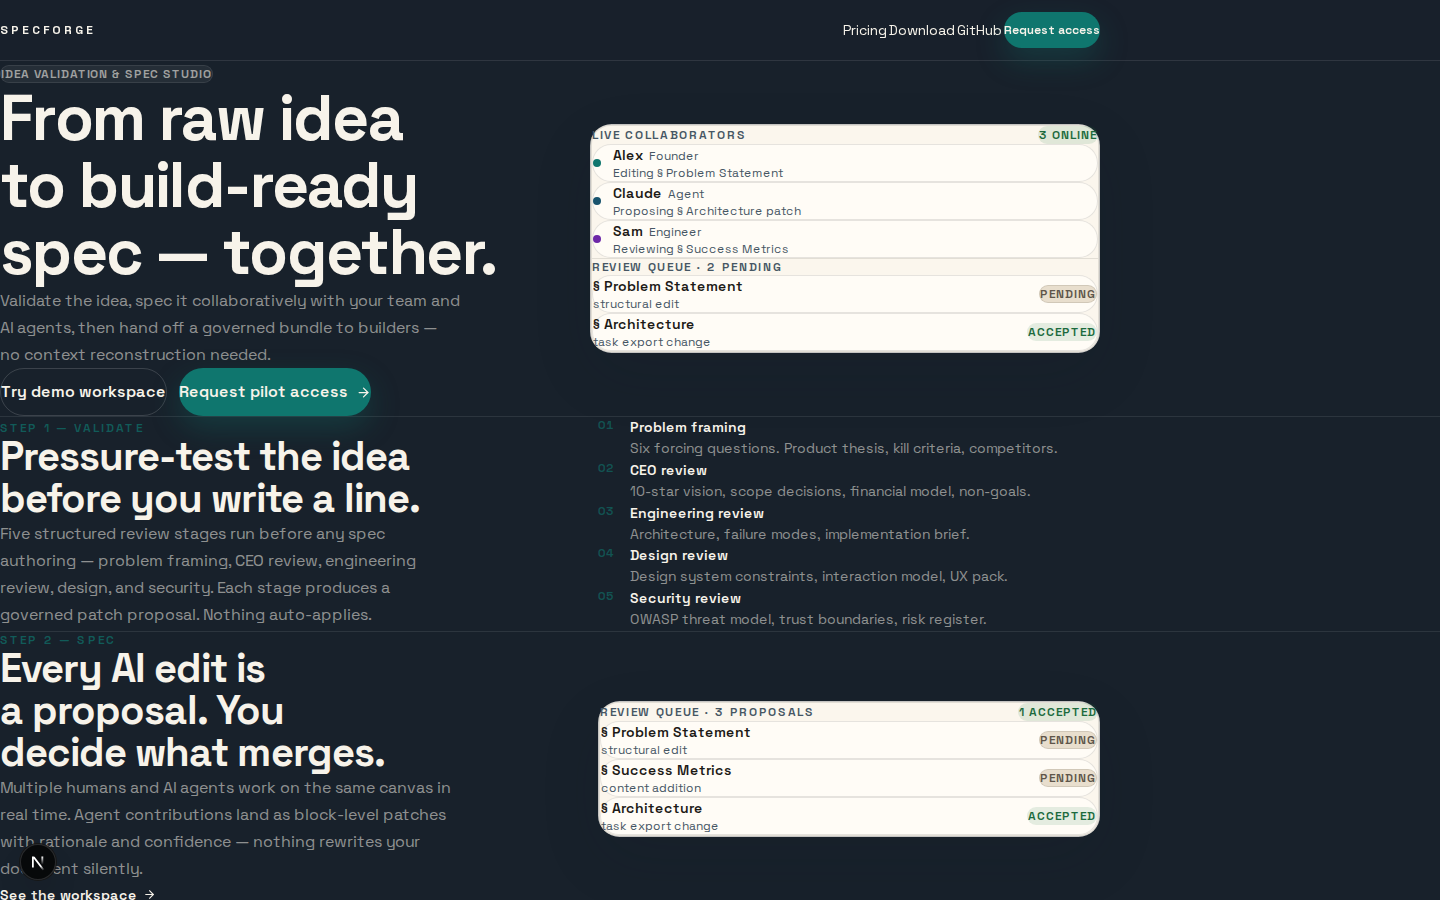
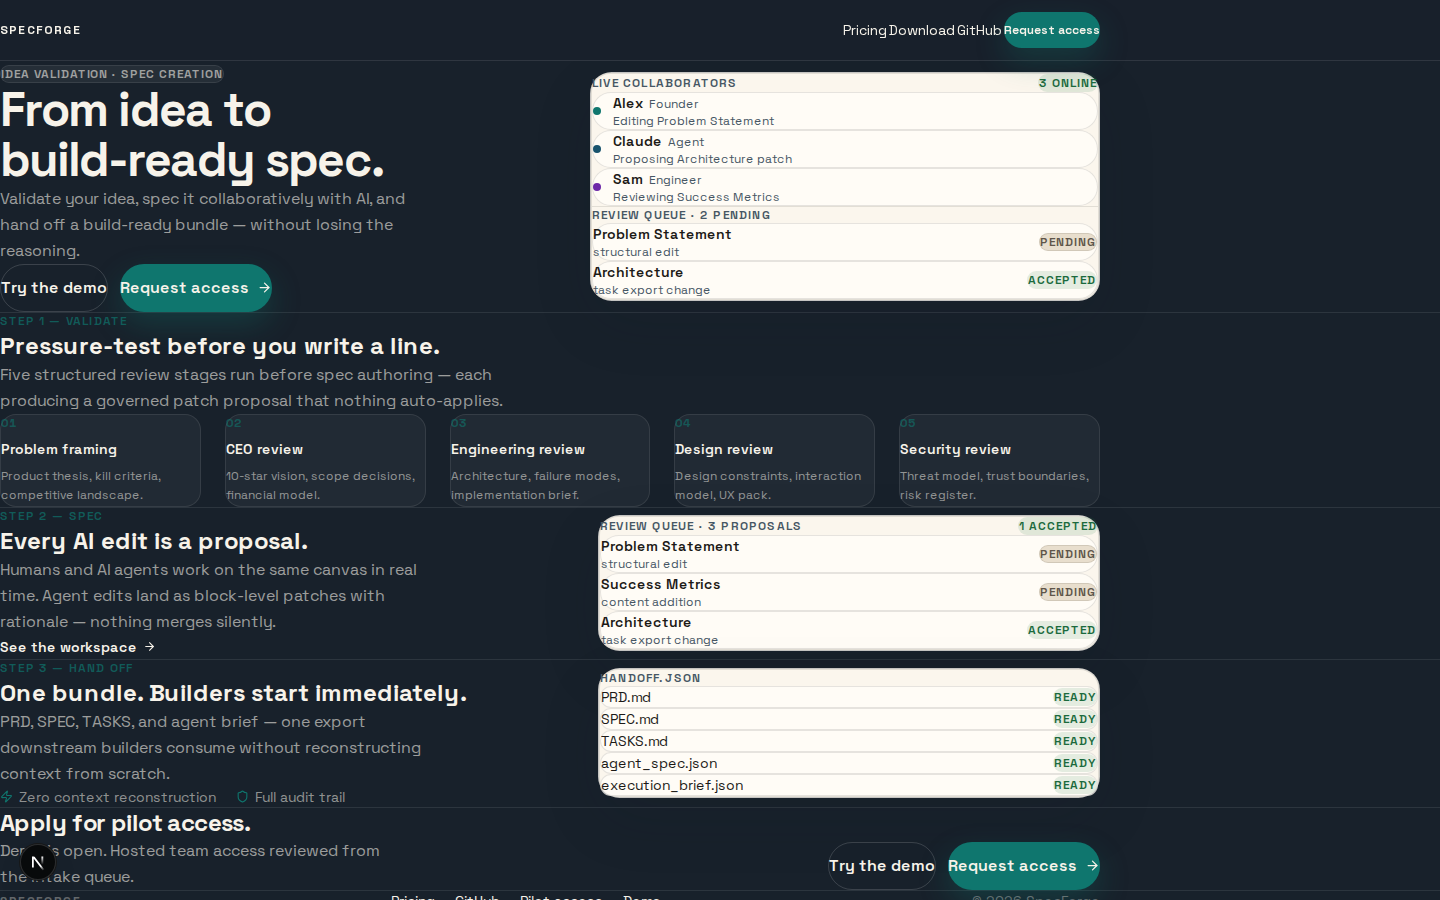
feat(web): landing page polish — standard typography, section rhythm, shorter copy
- Section h2: replace custom clamp(1.5rem,4vw,2.5rem) with text-2xl (1.5rem)
  which matches DESIGN.md typography scale; eliminates 40px headings forcing 3-4
  line wraps in each section
- Break section rhythm per DESIGN.md: Step 1 (Validate) is now a full-width
  5-card grid instead of 2-col; Step 3 (Hand off) reverses column order on desktop
- Replace all custom tracking-[...] values with tracking-widest/tracking-wide
- Side padding: px-6 sm:px-8 lg:px-10 across all sections and nav (was px-5)
- Space-y-5/6 on all text columns for consistent internal breathing room
- Copy shortened: hero subhead 23→16 words; section h2s all ≤8 words;
  button labels: "Try the demo" / "Request access" instead of long variants
- Audit stage cards: sm:grid-cols-3 lg:grid-cols-5 for better breakpoint coverage
- Updated screenshots (mobile/tablet/desktop fold+full)

[Agent: Claude Sonnet 4.6]

diff --git a/web/src/app/page.tsx b/web/src/app/page.tsx
@@ -8,17 +8,17 @@ import { Card, CardPanel } from "@/components/ui/card";
 const GITHUB_URL = "https://github.com/chimera-defi/specforge";
 
 const auditStages = [
-  { n: "01", title: "Problem framing", sub: "Six forcing questions. Product thesis, kill criteria, competitors." },
-  { n: "02", title: "CEO review", sub: "10-star vision, scope decisions, financial model, non-goals." },
+  { n: "01", title: "Problem framing", sub: "Product thesis, kill criteria, competitive landscape." },
+  { n: "02", title: "CEO review", sub: "10-star vision, scope decisions, financial model." },
   { n: "03", title: "Engineering review", sub: "Architecture, failure modes, implementation brief." },
-  { n: "04", title: "Design review", sub: "Design system constraints, interaction model, UX pack." },
-  { n: "05", title: "Security review", sub: "OWASP threat model, trust boundaries, risk register." },
+  { n: "04", title: "Design review", sub: "Design constraints, interaction model, UX pack." },
+  { n: "05", title: "Security review", sub: "Threat model, trust boundaries, risk register." },
 ];
 
 const reviewQueue = [
-  { block: "§ Problem Statement", type: "structural edit", status: "pending" },
-  { block: "§ Success Metrics", type: "content addition", status: "pending" },
-  { block: "§ Architecture", type: "task export change", status: "accepted" },
+  { block: "Problem Statement", type: "structural edit", status: "pending" },
+  { block: "Success Metrics", type: "content addition", status: "pending" },
+  { block: "Architecture", type: "task export change", status: "accepted" },
 ];
 
 const handoffFiles = ["PRD.md", "SPEC.md", "TASKS.md", "agent_spec.json", "execution_brief.json"];
@@ -33,48 +33,49 @@ export default function LandingPage() {
         ctaVariant="default"
       />
 
-      {/* Hero */}
-      <section className="mx-auto w-full max-w-[1100px] px-5 pb-10 pt-12 sm:px-8 md:pt-20">
-        <div className="grid gap-8 lg:grid-cols-2 lg:items-center lg:gap-20">
-          <div>
-            <Badge variant="outline" className="mb-6 border-border-dark text-primary-foreground/60">
-              Idea validation &amp; spec studio
+      {/* ─── Hero ──────────────────────────────────────────── */}
+      <section className="mx-auto w-full max-w-[1100px] px-6 pb-14 pt-16 sm:px-8 md:pt-24 lg:px-10">
+        <div className="grid gap-10 lg:grid-cols-2 lg:items-center lg:gap-20">
+          <div className="space-y-6">
+            <Badge variant="outline" className="border-border-dark text-primary-foreground/60">
+              Idea validation · Spec creation
             </Badge>
 
-            <h1 className="max-w-[15ch] text-balance text-[clamp(1.6rem,8vw,2.2rem)] font-bold leading-[1.05] tracking-tight md:text-[clamp(2rem,5vw,4rem)]">
-              From raw idea to build-ready spec — together.
+            <h1 className="text-balance text-4xl font-extrabold leading-[1.05] tracking-tight md:text-5xl">
+              From idea to<br className="hidden sm:block" /> build-ready spec.
             </h1>
 
-            <p className="mt-5 max-w-[46ch] text-base leading-[1.7] text-primary-foreground/55">
-              Validate the idea, spec it collaboratively with your team and AI agents, then hand off a governed bundle to builders — no context reconstruction needed.
+            <p className="max-w-[42ch] text-base leading-relaxed text-primary-foreground/60">
+              Validate your idea, spec it collaboratively with AI, and hand off a build-ready bundle — without losing the reasoning.
             </p>
 
-            <div className="mt-6 flex flex-wrap items-center gap-3">
+            <div className="flex flex-wrap gap-3">
               <Button asChild variant="outline" size="lg">
-                <Link href="/workspace?source=landing_hero">Try demo workspace</Link>
+                <Link href="/workspace?source=landing_hero">Try the demo</Link>
               </Button>
               <Button asChild variant="default" size="lg">
                 <Link href="/pilot-access?source=landing_hero">
-                  Request pilot access
+                  Request access
                   <ArrowRight size={15} />
                 </Link>
               </Button>
             </div>
           </div>
 
+          {/* Collaborator + review mockup */}
           <Card className="p-1">
             <CardPanel>
               <div className="mb-3 flex min-w-0 items-center justify-between gap-2">
-                <span className="min-w-0 truncate text-xs font-semibold uppercase tracking-[0.14em] text-muted-foreground">
+                <span className="min-w-0 truncate text-xs font-semibold uppercase tracking-widest text-muted-foreground">
                   Live collaborators
                 </span>
                 <Badge variant="success" className="shrink-0">3 online</Badge>
               </div>
               <div className="mb-4 space-y-2">
                 {[
-                  { name: "Alex", role: "Founder", action: "Editing § Problem Statement", dotClass: "bg-role-human" },
-                  { name: "Claude", role: "Agent", action: "Proposing § Architecture patch", dotClass: "bg-role-agent" },
-                  { name: "Sam", role: "Engineer", action: "Reviewing § Success Metrics", dotClass: "bg-role-design" },
+                  { name: "Alex", role: "Founder", action: "Editing Problem Statement", dotClass: "bg-role-human" },
+                  { name: "Claude", role: "Agent", action: "Proposing Architecture patch", dotClass: "bg-role-agent" },
+                  { name: "Sam", role: "Engineer", action: "Reviewing Success Metrics", dotClass: "bg-role-design" },
                 ].map((p) => (
                   <div key={p.name} className="flex items-center gap-3 rounded-xl border border-border bg-card px-3 py-2.5">
                     <span className={`h-2 w-2 shrink-0 rounded-full ${p.dotClass}`} />
@@ -89,12 +90,12 @@ export default function LandingPage() {
                 ))}
               </div>
               <div className="hidden border-t border-border pt-3 sm:block">
-                <p className="mb-2 text-xs font-semibold uppercase tracking-[0.14em] text-muted-foreground">
+                <p className="mb-2 text-xs font-semibold uppercase tracking-widest text-muted-foreground">
                   Review queue · 2 pending
                 </p>
                 {[
-                  { block: "§ Problem Statement", type: "structural edit", status: "pending" },
-                  { block: "§ Architecture", type: "task export change", status: "accepted" },
+                  { block: "Problem Statement", type: "structural edit", status: "pending" },
+                  { block: "Architecture", type: "task export change", status: "accepted" },
                 ].map((p) => (
                   <div key={p.block} className="mb-2 flex items-center justify-between gap-2 rounded-xl border border-border bg-card px-3 py-2 last:mb-0">
                     <div className="min-w-0">
@@ -112,53 +113,49 @@ export default function LandingPage() {
 
       <div className="border-t border-border-dark" />
 
-      {/* Validate first */}
-      <section className="mx-auto w-full max-w-[1100px] px-5 py-14 sm:px-8 lg:py-24">
-        <div className="grid gap-10 lg:grid-cols-2 lg:items-center lg:gap-24">
-          <div>
-            <p className="text-xs font-semibold uppercase tracking-[0.18em] text-accent/70">
-              Step 1 — Validate
-            </p>
-            <h2 className="mt-4 max-w-[18ch] text-balance text-[clamp(1.5rem,4vw,2.5rem)] font-bold leading-[1.05] tracking-tight">
-              Pressure-test the idea before you write a line.
-            </h2>
-            <p className="mt-4 max-w-[44ch] text-base leading-[1.7] text-primary-foreground/55">
-              Five structured review stages run before any spec authoring — problem framing, CEO review, engineering review, design, and security. Each stage produces a governed patch proposal. Nothing auto-applies.
-            </p>
-          </div>
-
-          <ol className="space-y-5">
-            {auditStages.map((s) => (
-              <li key={s.n} className="flex gap-4">
-                <span className="mt-0.5 shrink-0 text-xs font-semibold tabular-nums text-accent/60">{s.n}</span>
-                <div>
-                  <p className="text-sm font-semibold text-primary-foreground">{s.title}</p>
-                  <p className="mt-0.5 text-sm leading-relaxed text-primary-foreground/55">{s.sub}</p>
-                </div>
-              </li>
-            ))}
-          </ol>
+      {/* ─── Step 1: Validate ─────────────────────────────── */}
+      {/* Full-width step list — breaks rhythm from 2-col sections */}
+      <section className="mx-auto w-full max-w-[1100px] px-6 py-16 sm:px-8 lg:px-10 lg:py-28">
+        <div className="mb-10 max-w-[52ch] space-y-4">
+          <p className="text-xs font-semibold uppercase tracking-widest text-accent/70">
+            Step 1 — Validate
+          </p>
+          <h2 className="text-2xl font-bold leading-snug text-balance">
+            Pressure-test before you write a line.
+          </h2>
+          <p className="text-base leading-relaxed text-primary-foreground/60">
+            Five structured review stages run before spec authoring — each producing a governed patch proposal that nothing auto-applies.
+          </p>
         </div>
+        <ol className="grid gap-6 sm:grid-cols-3 lg:grid-cols-5">
+          {auditStages.map((s) => (
+            <li key={s.n} className="flex flex-col gap-2 rounded-2xl border border-border-dark bg-surface-elevated px-5 py-4">
+              <span className="text-xs font-bold tabular-nums text-accent/60">{s.n}</span>
+              <p className="text-sm font-semibold text-primary-foreground">{s.title}</p>
+              <p className="text-xs leading-relaxed text-primary-foreground/55">{s.sub}</p>
+            </li>
+          ))}
+        </ol>
       </section>
 
       <div className="border-t border-border-dark" />
 
-      {/* Spec collaboratively */}
-      <section className="mx-auto w-full max-w-[1100px] px-5 py-14 sm:px-8 lg:py-24">
-        <div className="grid gap-10 lg:grid-cols-2 lg:items-center lg:gap-24">
-          <div>
-            <p className="text-xs font-semibold uppercase tracking-[0.18em] text-accent/70">
+      {/* ─── Step 2: Spec ─────────────────────────────────── */}
+      <section className="mx-auto w-full max-w-[1100px] px-6 py-16 sm:px-8 lg:px-10 lg:py-28">
+        <div className="grid gap-12 lg:grid-cols-2 lg:items-center lg:gap-24">
+          <div className="space-y-5">
+            <p className="text-xs font-semibold uppercase tracking-widest text-accent/70">
               Step 2 — Spec
             </p>
-            <h2 className="mt-4 max-w-[18ch] text-balance text-[clamp(1.5rem,4vw,2.5rem)] font-bold leading-[1.05] tracking-tight">
-              Every AI edit is a proposal. You decide what merges.
+            <h2 className="text-2xl font-bold leading-snug text-balance">
+              Every AI edit is a proposal.
             </h2>
-            <p className="mt-4 max-w-[46ch] text-base leading-[1.7] text-primary-foreground/55">
-              Multiple humans and AI agents work on the same canvas in real time. Agent contributions land as block-level patches with rationale and confidence — nothing rewrites your document silently.
+            <p className="max-w-[44ch] text-base leading-relaxed text-primary-foreground/60">
+              Humans and AI agents work on the same canvas in real time. Agent edits land as block-level patches with rationale — nothing merges silently.
             </p>
             <Link
               href="/workspace?source=feature_governance"
-              className="mt-6 inline-flex items-center gap-1.5 text-sm font-semibold text-accent hover:underline"
+              className="inline-flex items-center gap-1.5 text-sm font-semibold text-accent hover:underline"
             >
               See the workspace <ArrowRight size={13} />
             </Link>
@@ -167,7 +164,7 @@ export default function LandingPage() {
           <Card className="p-1">
             <CardPanel>
               <div className="mb-3 flex min-w-0 items-center justify-between gap-2">
-                <span className="min-w-0 truncate text-xs font-semibold uppercase tracking-[0.14em] text-muted-foreground">
+                <span className="min-w-0 truncate text-xs font-semibold uppercase tracking-widest text-muted-foreground">
                   Review queue · 3 proposals
                 </span>
                 <Badge variant="success" className="shrink-0">1 accepted</Badge>
@@ -188,32 +185,13 @@ export default function LandingPage() {
 
       <div className="border-t border-border-dark" />
 
-      {/* Hand off */}
-      <section className="mx-auto w-full max-w-[1100px] px-5 py-14 sm:px-8 lg:py-24">
-        <div className="grid gap-10 lg:grid-cols-2 lg:items-center lg:gap-24">
-          <div>
-            <p className="text-xs font-semibold uppercase tracking-[0.18em] text-accent/70">
-              Step 3 — Hand off
-            </p>
-            <h2 className="mt-4 max-w-[18ch] text-balance text-[clamp(1.5rem,4vw,2.5rem)] font-bold leading-[1.05] tracking-tight">
-              One governed bundle. Builders can start immediately.
-            </h2>
-            <p className="mt-4 max-w-[46ch] text-base leading-[1.7] text-primary-foreground/55">
-              PRD, SPEC, TASKS, and agent brief — one export downstream builders consume without reconstructing context from scratch.
-            </p>
-            <div className="mt-6 flex flex-wrap gap-4 text-sm text-primary-foreground/55">
-              <span className="inline-flex items-center gap-1.5">
-                <Zap size={13} className="text-accent" /> Zero context reconstruction
-              </span>
-              <span className="inline-flex items-center gap-1.5">
-                <Shield size={13} className="text-accent" /> Full audit trail
-              </span>
-            </div>
-          </div>
-
-          <Card className="p-1">
+      {/* ─── Step 3: Hand off ─────────────────────────────── */}
+      <section className="mx-auto w-full max-w-[1100px] px-6 py-16 sm:px-8 lg:px-10 lg:py-28">
+        <div className="grid gap-12 lg:grid-cols-2 lg:items-center lg:gap-24">
+          {/* Reverse column order on desktop — breaks visual rhythm */}
+          <Card className="p-1 lg:order-2">
             <CardPanel>
-              <p className="mb-3 text-xs font-semibold uppercase tracking-[0.14em] text-muted-foreground">
+              <p className="mb-3 text-xs font-semibold uppercase tracking-widest text-muted-foreground">
                 handoff.json
               </p>
               <div className="space-y-2">
@@ -226,24 +204,44 @@ export default function LandingPage() {
               </div>
             </CardPanel>
           </Card>
+
+          <div className="space-y-5 lg:order-1">
+            <p className="text-xs font-semibold uppercase tracking-widest text-accent/70">
+              Step 3 — Hand off
+            </p>
+            <h2 className="text-2xl font-bold leading-snug text-balance">
+              One bundle. Builders start immediately.
+            </h2>
+            <p className="max-w-[44ch] text-base leading-relaxed text-primary-foreground/60">
+              PRD, SPEC, TASKS, and agent brief — one export downstream builders consume without reconstructing context from scratch.
+            </p>
+            <div className="flex flex-wrap gap-5 text-sm text-primary-foreground/55">
+              <span className="inline-flex items-center gap-1.5">
+                <Zap size={13} className="text-accent" /> Zero context reconstruction
+              </span>
+              <span className="inline-flex items-center gap-1.5">
+                <Shield size={13} className="text-accent" /> Full audit trail
+              </span>
+            </div>
+          </div>
         </div>
       </section>
 
-      {/* CTA */}
+      {/* ─── CTA ──────────────────────────────────────────── */}
       <div className="border-t border-border-dark" />
-      <section className="mx-auto w-full max-w-[1100px] px-5 py-14 sm:px-8 lg:py-24">
+      <section className="mx-auto w-full max-w-[1100px] px-6 py-16 sm:px-8 lg:px-10 lg:py-24">
         <div className="flex flex-col gap-8 sm:flex-row sm:items-end sm:justify-between">
-          <div>
-            <h2 className="max-w-[20ch] text-balance text-[clamp(1.5rem,4vw,2.5rem)] font-bold leading-tight tracking-tight">
+          <div className="space-y-3">
+            <h2 className="max-w-[20ch] text-balance text-2xl font-bold leading-tight tracking-tight">
               Apply for pilot access.
             </h2>
-            <p className="mt-3 max-w-[40ch] text-base leading-relaxed text-primary-foreground/55">
-              Demo workspace is open. Hosted team access is reviewed from the intake queue.
+            <p className="max-w-[38ch] text-base leading-relaxed text-primary-foreground/60">
+              Demo is open. Hosted team access reviewed from the intake queue.
             </p>
           </div>
-          <div className="flex shrink-0 flex-wrap items-center gap-3">
+          <div className="flex shrink-0 flex-wrap gap-3">
             <Button asChild variant="outline" size="lg">
-              <Link href="/workspace?source=landing_cta">Try demo workspace</Link>
+              <Link href="/workspace?source=landing_cta">Try the demo</Link>
             </Button>
             <Button asChild variant="default" size="lg">
               <Link href="/pilot-access?source=landing_cta">
@@ -255,9 +253,9 @@ export default function LandingPage() {
         </div>
       </section>
 
-      {/* Footer */}
+      {/* ─── Footer ───────────────────────────────────────── */}
       <footer className="border-t border-border-dark">
-        <div className="mx-auto flex w-full max-w-[1100px] flex-col gap-4 px-5 py-6 sm:flex-row sm:items-center sm:justify-between sm:px-8">
+        <div className="mx-auto flex w-full max-w-[1100px] flex-col gap-4 px-6 py-6 sm:flex-row sm:items-center sm:justify-between sm:px-8 lg:px-10">
           <span className="text-xs font-black uppercase tracking-widest text-primary-foreground/35">
             SpecForge
           </span>

diff --git a/web/src/components/site-nav.tsx b/web/src/components/site-nav.tsx
@@ -52,8 +52,8 @@ export function SiteNav({
           href="/"
           className={
             isDark
-              ? "text-xs font-black uppercase tracking-[0.12em] sm:tracking-[0.24em] text-primary-foreground/90 transition-opacity hover:opacity-60"
-              : "text-xs font-black uppercase tracking-[0.12em] sm:tracking-[0.24em] text-foreground transition-opacity hover:opacity-60"
+              ? "text-xs font-black uppercase tracking-wide sm:tracking-widest text-primary-foreground/90 transition-opacity hover:opacity-60"
+              : "text-xs font-black uppercase tracking-wide sm:tracking-widest text-foreground transition-opacity hover:opacity-60"
           }
         >
           SpecForge
